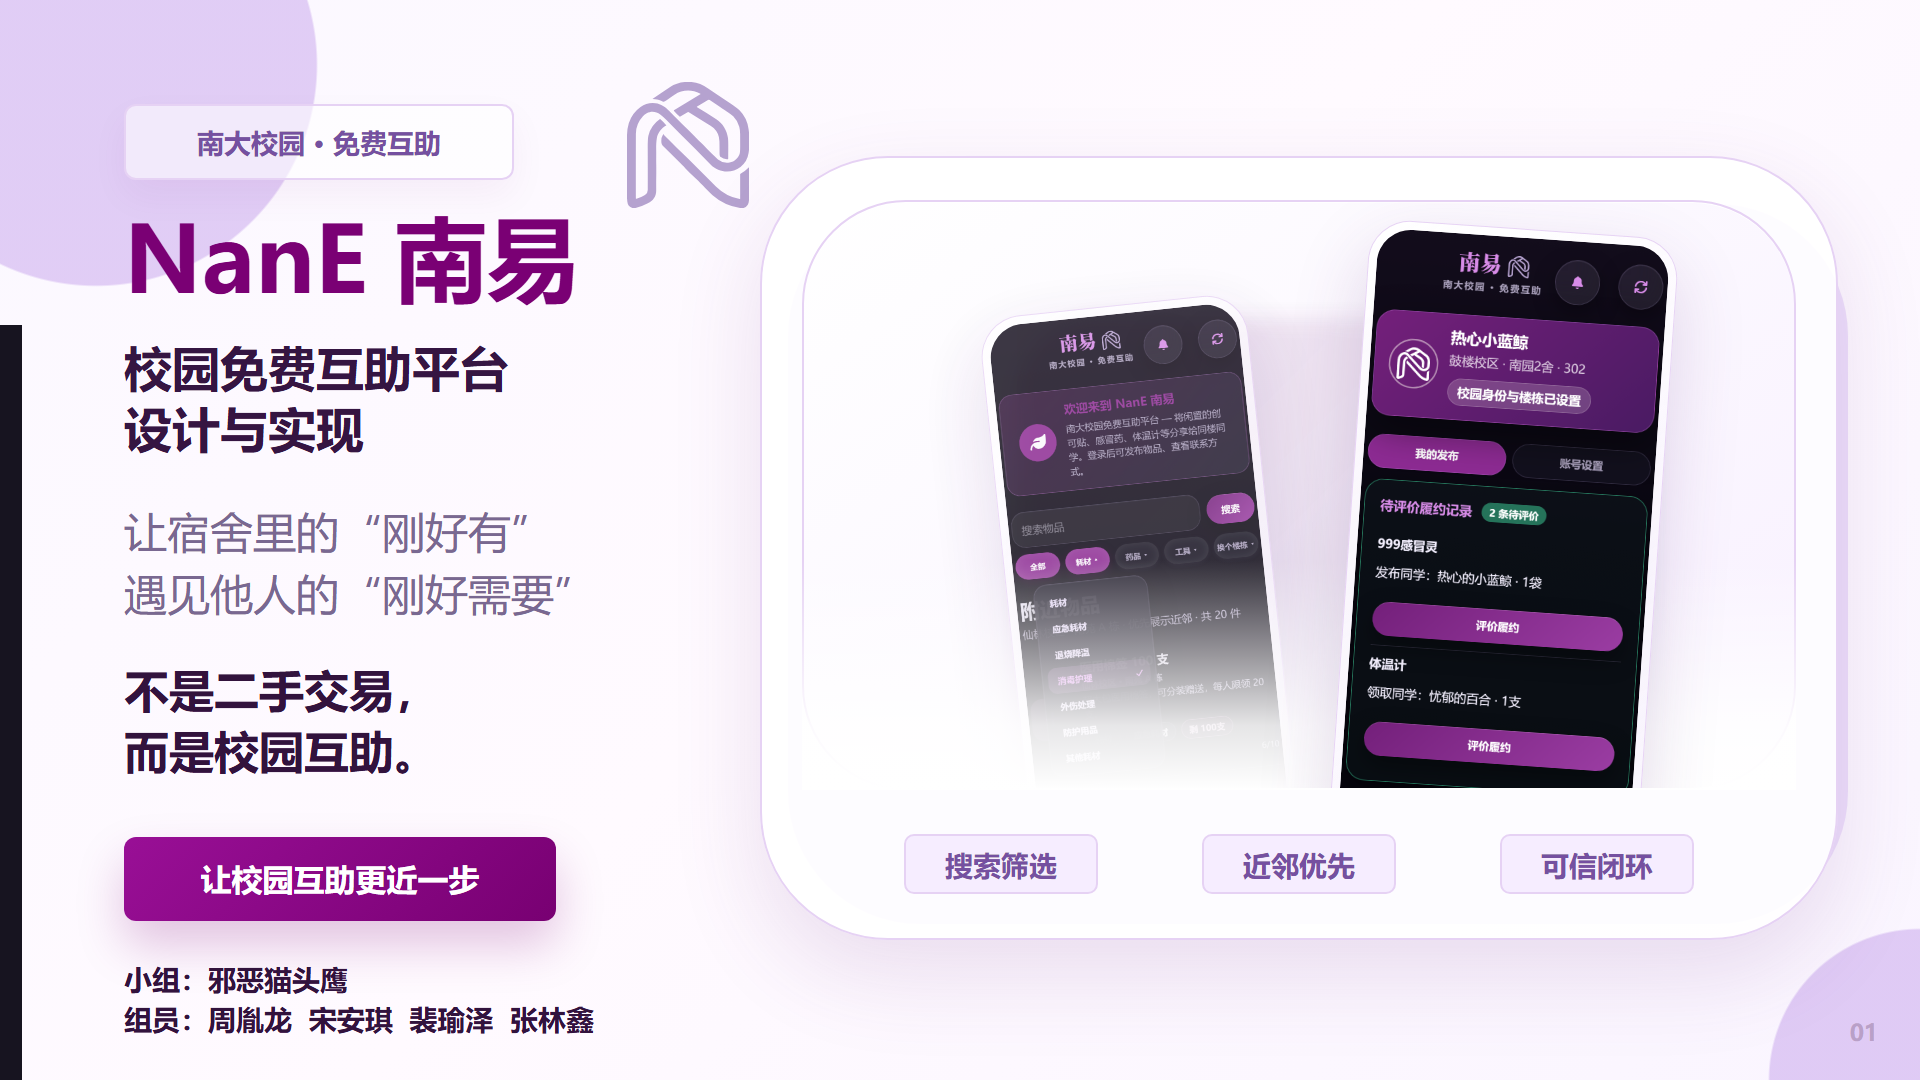
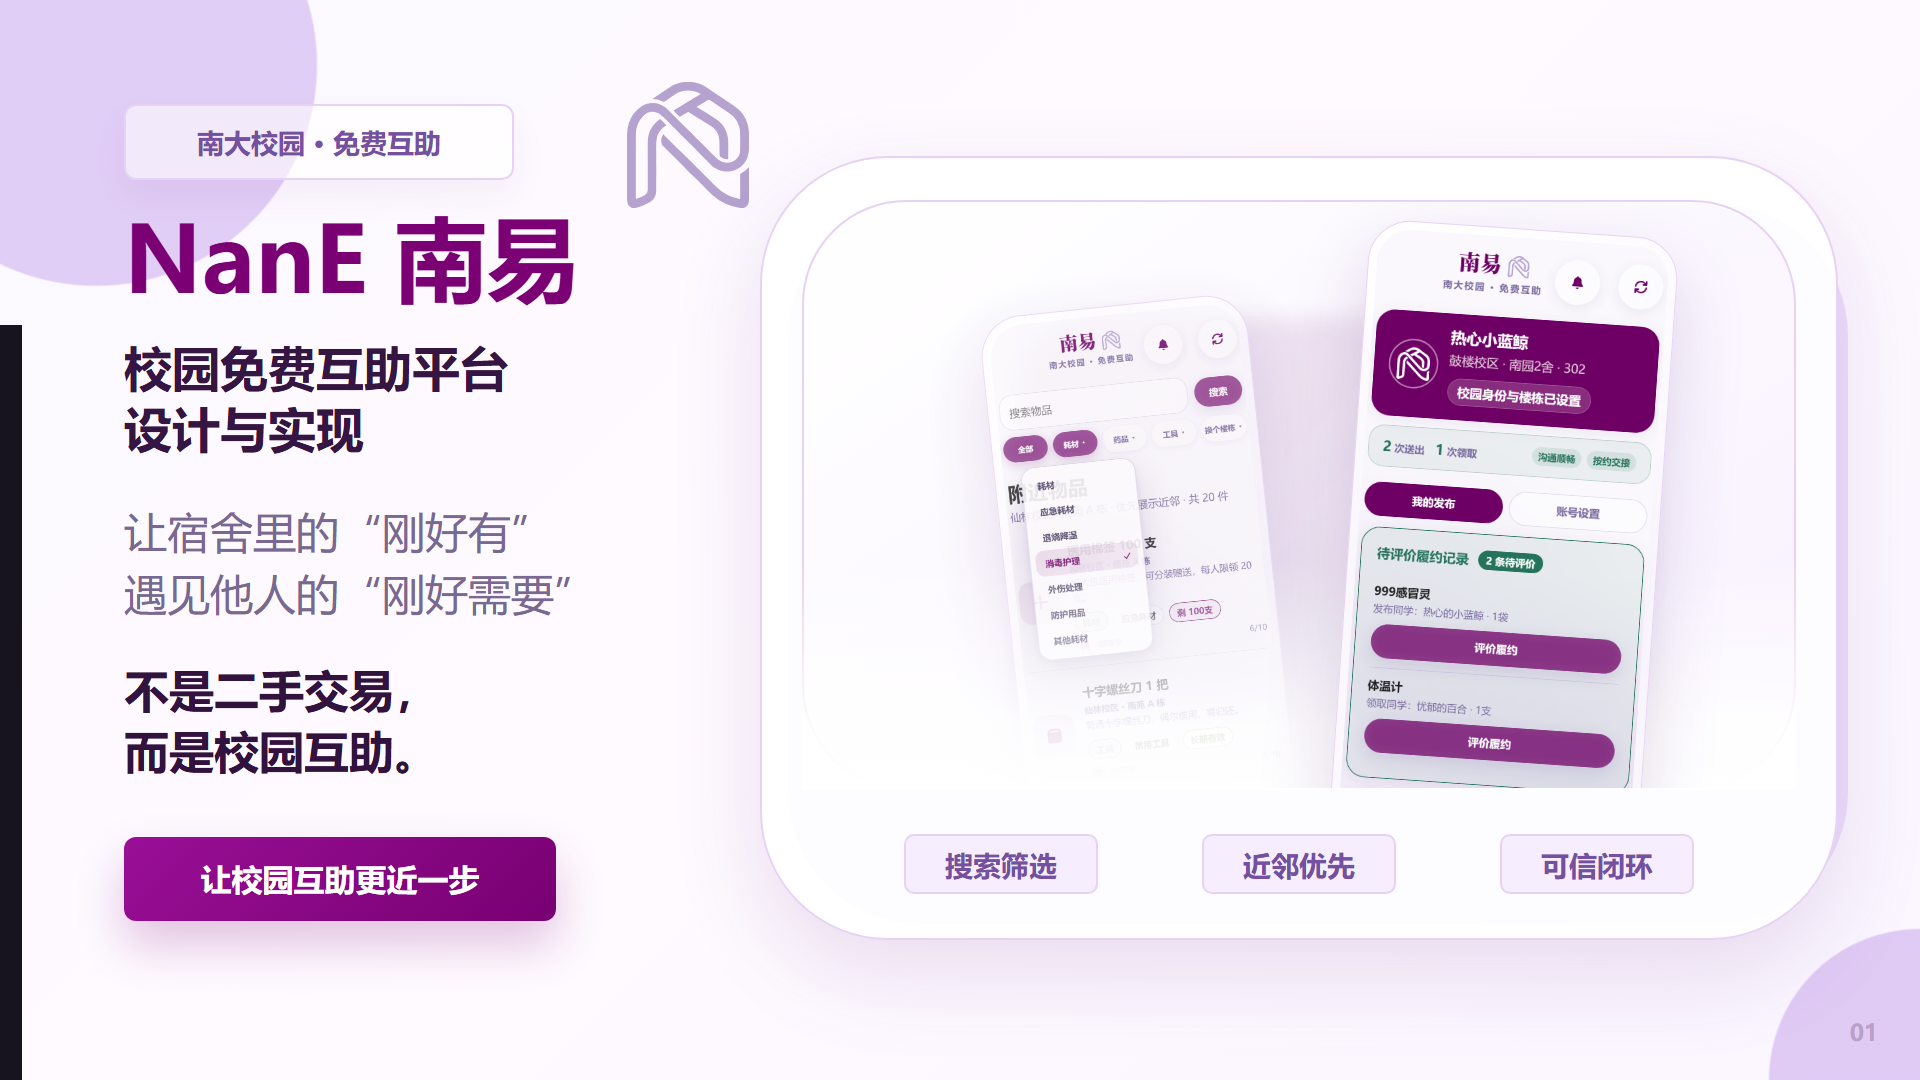
docs: update PPT poster assets

Changed region(s): [[0.5, 0.2139, 0.875, 0.7333], [0.0625, 0.8861, 0.3125, 0.9778]]

diff --git a/docs/showcase/poster/nane-light-slide.html b/docs/showcase/poster/nane-light-slide.html
@@ -128,16 +128,6 @@
       box-shadow: 0 24px 48px rgba(122, 0, 116, 0.22);
     }
 
-    .team {
-      position: absolute;
-      left: 124px;
-      bottom: 40px;
-      color: #32133d;
-      font-size: 28px;
-      line-height: 1.45;
-      font-weight: 950;
-    }
-
     .stage {
       position: absolute;
       left: 760px;
@@ -553,10 +543,10 @@
           <div class="phone-showcase">
             <div class="phone-halo"></div>
             <div class="phone home">
-              <img src="../screens/home-filter-mobile.png" alt="NanE 发现页筛选手机截图">
+              <img src="../screens/home-filter-mobile-light.png" alt="NanE 发现页筛选手机截图">
             </div>
             <div class="phone mine">
-              <img src="../screens/mine-trust-mobile.png" alt="NanE 我的页履约评价手机截图">
+              <img src="../screens/mine-trust-mobile-light.png" alt="NanE 我的页履约评价手机截图">
             </div>
           </div>
         </div>
@@ -569,7 +559,6 @@
       </div>
     </section>
 
-    <div class="team">小组：邪恶猫头鹰<br>组员：周胤龙&nbsp; 宋安琪&nbsp; 裴瑜泽&nbsp; 张林鑫</div>
     <div class="page-no">01</div>
   </main>
 </body>

diff --git a/docs/showcase/index.html b/docs/showcase/index.html
@@ -63,6 +63,18 @@
       <img src="screens/home-desktop.png" alt="桌面端首页">
       <figcaption>桌面端首页：附近物品流</figcaption>
     </figure>
+    <figure>
+      <img src="principles/nearby-priority-desktop.png" alt="近邻优先桌面端截图">
+      <figcaption>原则图：近邻优先</figcaption>
+    </figure>
+    <figure>
+      <img src="principles/safety-boundary-desktop.png" alt="安全边界桌面端截图">
+      <figcaption>原则图：安全边界</figcaption>
+    </figure>
+    <figure>
+      <img src="principles/trust-record-desktop.png" alt="可信记录桌面端截图">
+      <figcaption>原则图：可信记录</figcaption>
+    </figure>
     <figure class="poster">
       <img src="poster/nane-light-slide.png" alt="浅色PPT封面展示海报">
       <figcaption>浅色 PPT 封面：适合放在产品介绍或答辩开场</figcaption>

diff --git a/docs/showcase/README.md b/docs/showcase/README.md
@@ -2,13 +2,20 @@
 
 展示包包含两类材料：
 
-- `screens/`：真实页面截图式效果图，覆盖首页筛选、发布页、我的页履约评价、桌面首页。
+- `screens/`：真实页面截图式效果图，覆盖首页筛选、发布页、我的页履约评价、桌面首页；`*-light.png` 为浅色 PPT 海报使用的移动端截图。
+- `principles/`：三张白天模式电脑端原则图，分别对应近邻优先、安全边界、可信记录。
 - `poster/`：展示海报。`nane-light-slide.png` 为浅色 PPT 封面图；`nane-final-slide.png` 为 16:9 PPT 比例最终展示图；`nane-pitch-poster.png` 为纵向答辩长图。
 
 重新生成截图：
 
 ```powershell
 powershell -ExecutionPolicy Bypass -File docs\showcase\capture-screenshots.ps1
+```
+
+生成 PPT 用白天模式截图：
+
+```powershell
+powershell -ExecutionPolicy Bypass -File docs\showcase\capture-ppt-assets.ps1
 ```
 
 生成展示长图 PNG：
